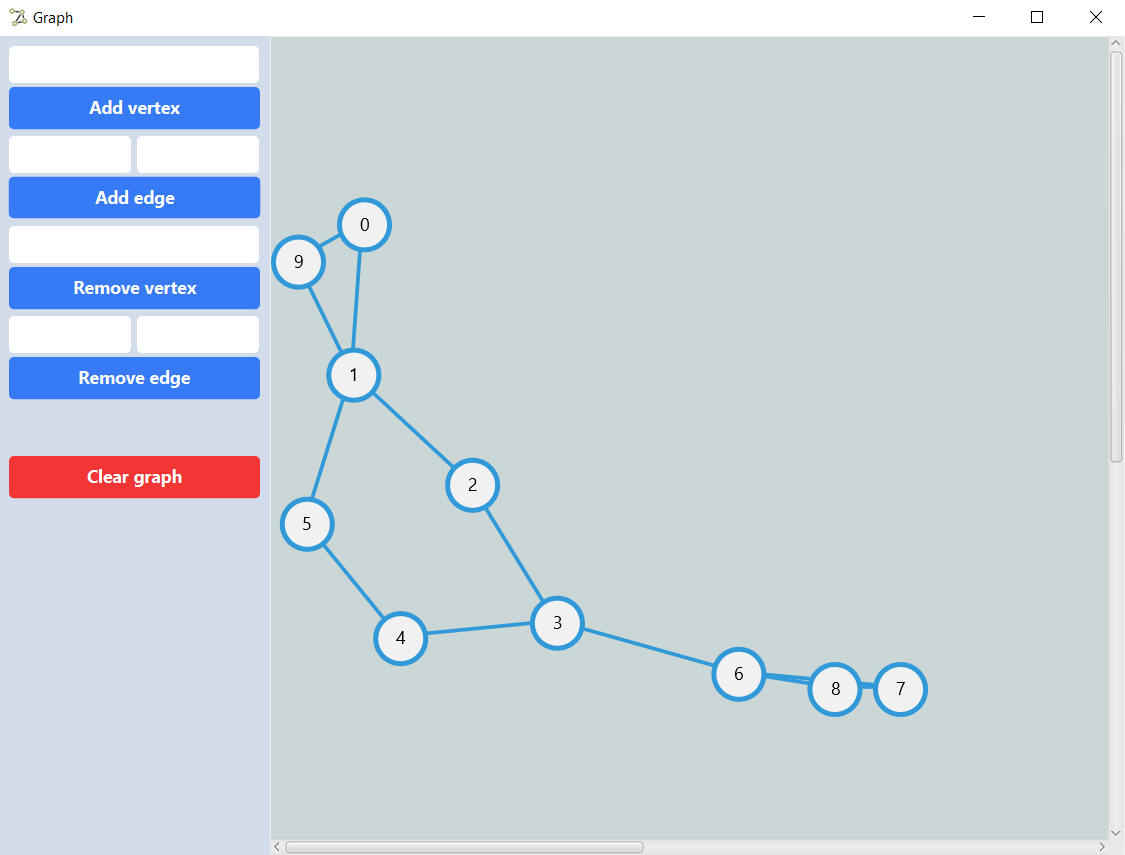
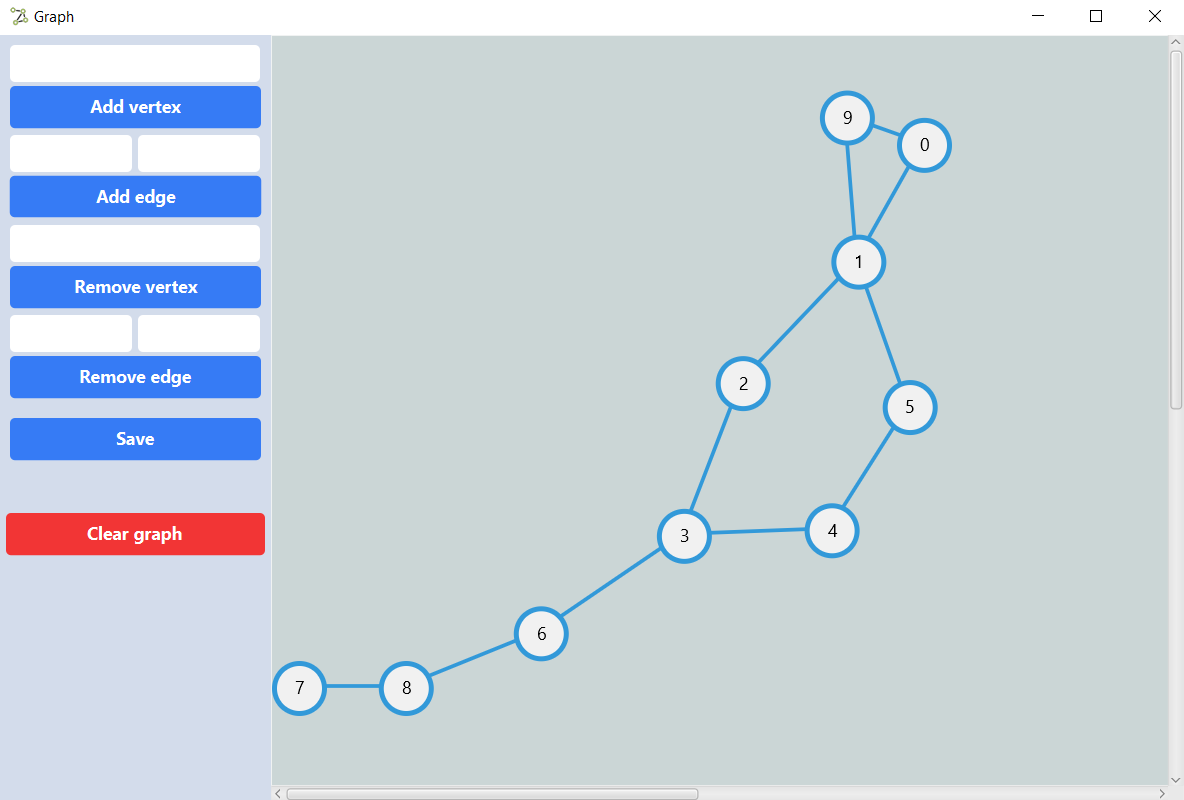
Final remarks

diff --git a/src/main/java/com/example/graphproject/controller/MainController.java b/src/main/java/com/example/graphproject/controller/MainController.java
@@ -1,5 +1,7 @@
 package com.example.graphproject.controller;
 
+import com.example.graphproject.model.GraphInstance;
+import com.example.graphproject.model.Vertex;
 import javafx.fxml.FXML;
 import javafx.fxml.Initializable;
 import javafx.scene.control.Alert;
@@ -10,13 +12,13 @@ import javafx.scene.layout.StackPane;
 import javafx.scene.paint.Color;
 import javafx.scene.paint.Paint;
 import javafx.scene.shape.Circle;
-import com.example.graphproject.model.*;
 import javafx.scene.shape.Line;
 import javafx.scene.text.Font;
 import javafx.scene.text.Text;
 import javafx.scene.text.TextBoundsType;
 import org.jgrapht.graph.DefaultEdge;
 
+import java.io.IOException;
 import java.net.URL;
 import java.util.ResourceBundle;
 
@@ -25,6 +27,7 @@ import java.util.ResourceBundle;
  * Клас контролеру, який реалізує логіку поведінки елементів вікна
  */
 public class MainController implements Initializable {
+    private static boolean updated = false;
     private final double RADIUS_FOR_CIRCLE = 20;
     private final double CIRCLE_STROKE_WIDTH = 4;
     private final double LINE_STROKE_WIDTH = 3;
@@ -58,7 +61,17 @@ public class MainController implements Initializable {
      */
     @Override
     public void initialize(URL url, ResourceBundle resourceBundle) {
+        try {
+            GraphSaver.loadGraphFromFile();
+        } catch (Exception exception) {
+            showErrorWindow(exception.getMessage());
+        }
+
         updateGraphCanvas();
+    }
+
+    public static boolean isUpdated() {
+        return updated;
     }
 
     /**
@@ -74,6 +87,7 @@ public class MainController implements Initializable {
             graphInstance.addVertex(value);
             addVertexValueField.clear();
             updateGraphCanvas();
+            updated = true;
         } catch(NumberFormatException numberFormatException) {
             showErrorWindowForIncorrectValues();
         } catch (IllegalArgumentException illegalArgumentException) {
@@ -96,6 +110,7 @@ public class MainController implements Initializable {
             addEdgeSourceValueField.clear();
             addEdgeTargetValueField.clear();
             updateGraphCanvas();
+            updated = true;
         } catch(NumberFormatException numberFormatException) {
             showErrorWindowForIncorrectValues();
         } catch (IllegalArgumentException illegalArgumentException) {
@@ -116,6 +131,7 @@ public class MainController implements Initializable {
             graphInstance.removeVertex(value);
             removeVertexValueField.clear();
             updateGraphCanvas();
+            updated = true;
         } catch(NumberFormatException numberFormatException) {
             showErrorWindowForIncorrectValues();
         } catch (IllegalArgumentException illegalArgumentException) {
@@ -138,6 +154,7 @@ public class MainController implements Initializable {
             removeEdgeSourceValueField.clear();
             removeEdgeTargetValueField.clear();
             updateGraphCanvas();
+            updated = true;
         } catch(NumberFormatException numberFormatException) {
             showErrorWindowForIncorrectValues();
         } catch (IllegalArgumentException illegalArgumentException) {
@@ -159,8 +176,23 @@ public class MainController implements Initializable {
         alert.showAndWait().ifPresent(response -> {
             if (response == ButtonType.YES) {
                 clearGraph();
+                updated = true;
             }
         });
+    }
+
+    /**
+     * Обробник події натискання на кнопку "Save"
+     * Якщо користувач натисне на кнопку "Save",
+     * то граф збережеться до файлу graph.json
+     */
+    @FXML
+    protected void onSaveButtonClick() {
+        try {
+            GraphSaver.saveGraph();
+        } catch (IOException e) {
+            showErrorWindow(e.getMessage());
+        }
     }
 
     /**
@@ -202,7 +234,7 @@ public class MainController implements Initializable {
      * Метод, що викликає повідомлення про помилку
      * @param message - повідомлення
      */
-    private void showErrorWindow(String message) {
+    public static void showErrorWindow(String message) {
         Alert alert = new Alert(Alert.AlertType.ERROR);
         alert.setTitle("Error");
         alert.setHeaderText("Error");

diff --git a/src/main/java/com/example/graphproject/controller/GraphSaver.java b/src/main/java/com/example/graphproject/controller/GraphSaver.java
@@ -1,0 +1,88 @@
+package com.example.graphproject.controller;
+
+import com.example.graphproject.model.GraphInstance;
+import com.example.graphproject.model.Vertex;
+import org.jgrapht.Graph;
+import org.jgrapht.graph.DefaultEdge;
+import org.json.simple.JSONArray;
+import org.json.simple.JSONObject;
+import org.json.simple.parser.JSONParser;
+
+import java.io.FileNotFoundException;
+import java.io.FileReader;
+import java.io.FileWriter;
+import java.io.IOException;
+import java.util.ArrayList;
+import java.util.HashMap;
+import java.util.Map;
+
+public class GraphSaver {
+    private static final String FILE_PATH = "savedGraph/graph.json";
+
+    private GraphSaver() {
+
+    }
+
+    public static void saveGraph() throws IOException {
+        GraphInstance instance = GraphInstance.getInstance();
+        Graph<Vertex, DefaultEdge> graph = instance.getGraph();
+
+        try (FileWriter fileWriter = new FileWriter(FILE_PATH)) {
+            Map<String, ArrayList<Map<String, String>>> graphMap = new HashMap<>();
+            ArrayList<Map<String, String>> nodesJsonArray = new ArrayList<>();
+            ArrayList<Map<String, String>> edgesJsonArray = new ArrayList<>();
+
+            for (Vertex vertex : graph.vertexSet()) {
+                Map<String, String> vertexMap = new HashMap<>();
+                vertexMap.put("value", String.valueOf(vertex.getValue()));
+                vertexMap.put("x", String.valueOf(vertex.getX()));
+                vertexMap.put("y", String.valueOf(vertex.getY()));
+                nodesJsonArray.add(vertexMap);
+            }
+
+            for (DefaultEdge edge : graph.edgeSet()) {
+                Map<String, String> edgeMap = new HashMap<>();
+                edgeMap.put("source", String.valueOf(graph.getEdgeSource(edge).getValue()));
+                edgeMap.put("target", String.valueOf(graph.getEdgeTarget(edge).getValue()));
+                edgesJsonArray.add(edgeMap);
+            }
+
+            graphMap.put("nodes", nodesJsonArray);
+            graphMap.put("edges", edgesJsonArray);
+
+            JSONObject graphJson = new JSONObject(graphMap);
+            graphJson.writeJSONString(fileWriter);
+        } catch (IOException e) {
+            throw new IOException("Saving file failed!");
+        }
+    }
+
+    public static void loadGraphFromFile() throws Exception {
+        try (FileReader reader = new FileReader(FILE_PATH)) {
+            GraphInstance graphInstance = GraphInstance.getInstance();
+            JSONParser parser = new JSONParser();
+            JSONObject graph = (JSONObject) parser.parse(reader);
+            JSONArray nodesArray = (JSONArray) graph.get("nodes");
+            JSONArray edgesArray = (JSONArray) graph.get("edges");
+
+            for (Object o : nodesArray) {
+                JSONObject object = (JSONObject) o;
+                graphInstance.addVertex(new Vertex(Integer.parseInt((String) object.get("value")),
+                        Double.parseDouble((String) object.get("x")),
+                        Double.parseDouble((String) object.get("y"))));
+            }
+
+            for (Object o : edgesArray) {
+                JSONObject object = (JSONObject) o;
+                graphInstance.addEdge(Integer.parseInt((String) object.get("source")),
+                        Integer.parseInt((String) object.get("target")));
+
+            }
+
+        } catch (FileNotFoundException e) {
+            throw new FileNotFoundException("Cannot find file with graph");
+        } catch (Exception e) {
+            throw new Exception("Something went wrong while getting graph from file!");
+        }
+    }
+}

diff --git a/src/main/java/com/example/graphproject/model/GraphInstance.java b/src/main/java/com/example/graphproject/model/GraphInstance.java
@@ -19,14 +19,13 @@ public class GraphInstance {
     private static final int CRITICAL_NUMBER_OF_VERTICES = 10;
     private static final double INITIAL_WIDTH_OF_PLANE = 500;
     private static final double INITIAL_HEIGHT_OF_PLANE = 500;
-    private static double WIDTH_OF_PLANE = 500;
-    private static double HEIGHT_OF_PLANE = 500;
+    private static double widthOfPlane = INITIAL_WIDTH_OF_PLANE;
+    private static double heightOfPlane = INITIAL_HEIGHT_OF_PLANE;
 
     private static SimpleGraph<Vertex, DefaultEdge> graph = new SimpleGraph<>(DefaultEdge.class);
     private static GraphInstance instance;
 
     private GraphInstance() {
-        
     }
 
     public static GraphInstance getInstance() {
@@ -37,14 +36,24 @@ public class GraphInstance {
     }
 
     public Graph<Vertex, DefaultEdge> getGraph() {
-        return graph;
+        return (Graph<Vertex, DefaultEdge>) graph.clone();
     }
 
     public void addVertex(Integer value) throws IllegalArgumentException {
-        WIDTH_OF_PLANE = INITIAL_WIDTH_OF_PLANE + 0.5 * INITIAL_WIDTH_OF_PLANE * (graph.vertexSet().size() / CRITICAL_NUMBER_OF_VERTICES);
-        HEIGHT_OF_PLANE = INITIAL_HEIGHT_OF_PLANE + 0.5 * INITIAL_HEIGHT_OF_PLANE * (graph.vertexSet().size() / CRITICAL_NUMBER_OF_VERTICES);
+        widthOfPlane = INITIAL_WIDTH_OF_PLANE +
+                0.5 * INITIAL_WIDTH_OF_PLANE * (graph.vertexSet().size() / CRITICAL_NUMBER_OF_VERTICES);
+        heightOfPlane = INITIAL_HEIGHT_OF_PLANE +
+                0.5 * INITIAL_HEIGHT_OF_PLANE * (graph.vertexSet().size() / CRITICAL_NUMBER_OF_VERTICES);
 
-        Vertex vertex = new Vertex(value, Math.random() * WIDTH_OF_PLANE, Math.random() * HEIGHT_OF_PLANE);
+        Vertex vertex = new Vertex(value, Math.random() * widthOfPlane, Math.random() * heightOfPlane);
+        if (!graph.containsVertex(vertex)) {
+            graph.addVertex(vertex);
+        } else {
+            throw new IllegalArgumentException("Vertex with this value is already exist!");
+        }
+    }
+
+    public void addVertex(Vertex vertex) {
         if (!graph.containsVertex(vertex)) {
             graph.addVertex(vertex);
         } else {
@@ -96,31 +105,18 @@ public class GraphInstance {
     /**
      * Даний метод обраховує координати вершин для силовим алгоритмом побудови графа.
      * Він потрібен, щоб граф приймав гарний та зрозумілий вигляд
+     *
      * @param radius - радіус кола, що позначає вершину
      */
     public void updateGraphPositions(double radius) {
         FRLayoutAlgorithm2D<Vertex, DefaultEdge> algorithm2D = new FRLayoutAlgorithm2D<>();
-        Box2D box2D = new Box2D(WIDTH_OF_PLANE, HEIGHT_OF_PLANE);
+        Box2D box2D = new Box2D(widthOfPlane, heightOfPlane);
         LayoutModel2D<Vertex> layoutModel2D = new MapLayoutModel2D<>(box2D);
         algorithm2D.layout(graph, layoutModel2D);
 
         for (Vertex vertex : graph.vertexSet()) {
             vertex.setX(layoutModel2D.get(vertex).getX() + radius);
             vertex.setY(layoutModel2D.get(vertex).getY() + radius);
-        }
-    }
-
-    public void printGraph() {
-        System.out.println("Vertices:");
-
-        for (Vertex vertex : graph.vertexSet()) {
-            System.out.println(vertex.toString());
-        }
-
-        System.out.println("Edges:");
-
-        for (DefaultEdge edge : graph.edgeSet()) {
-            System.out.println(edge.toString());
         }
     }
 }

diff --git a/src/main/java/com/example/graphproject/GraphApplication.java b/src/main/java/com/example/graphproject/GraphApplication.java
@@ -1,8 +1,12 @@
 package com.example.graphproject;
 
+import com.example.graphproject.controller.GraphSaver;
+import com.example.graphproject.controller.MainController;
 import javafx.application.Application;
 import javafx.fxml.FXMLLoader;
 import javafx.scene.Scene;
+import javafx.scene.control.Alert;
+import javafx.scene.control.ButtonType;
 import javafx.scene.image.Image;
 import javafx.stage.Stage;
 
@@ -31,5 +35,23 @@ public class GraphApplication extends Application {
 
     public static void main(String[] args) {
         launch();
+    }
+
+    @Override
+    public void stop() throws Exception {
+        super.stop();
+        if (MainController.isUpdated()) {
+            Alert alert = new Alert(Alert.AlertType.CONFIRMATION, "Confirmation", ButtonType.YES, ButtonType.CANCEL);
+            alert.setContentText("Do you want to save graph?");
+            alert.showAndWait().ifPresent(response -> {
+                if (response == ButtonType.YES) {
+                    try {
+                        GraphSaver.saveGraph();
+                    } catch (Exception e) {
+                        MainController.showErrorWindow(e.getMessage());
+                    }
+                }
+            });
+        }
     }
 }

diff --git a/README.md b/README.md
@@ -2,3 +2,5 @@
 University project of graph data structure visualization.
 
 ![View of the program](./design/demo1.png)
+![Class diagram](./design/classDiagram.png)
+![Sequence diagram](./design/sequenceDiagram.png)
